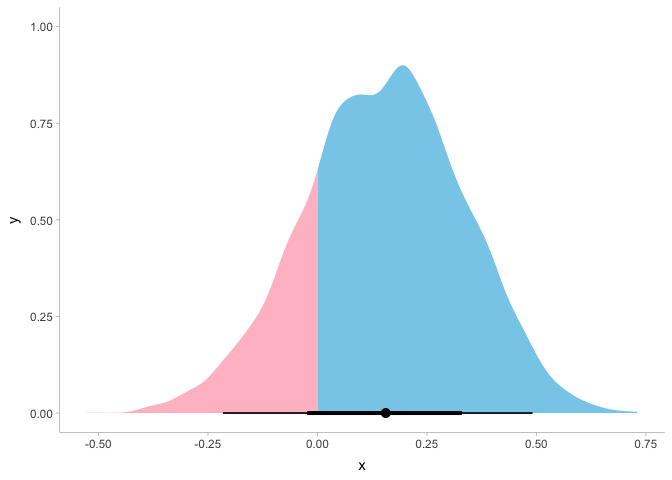
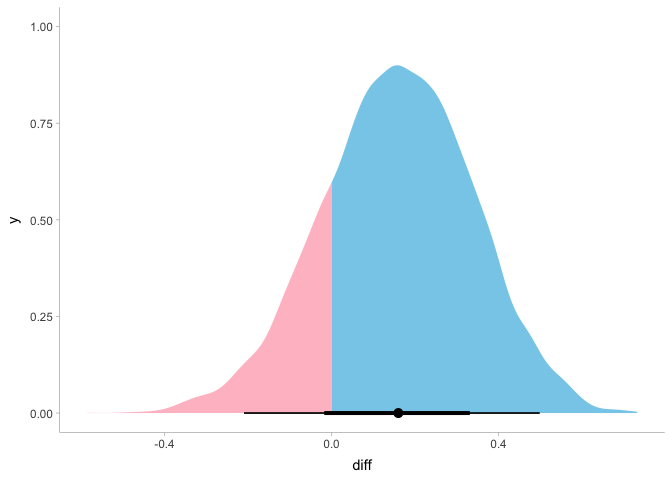
fixed bayes_diff and added as.unordered

diff --git a/README.md b/README.md
@@ -24,14 +24,6 @@ devtools::install_github("Agasax/laRs")
 ``` r
 library(laRs)
 library(tidyverse)
-#> ── Attaching packages ─────────────────────────────────────── tidyverse 1.3.0 ──
-#> ✓ ggplot2 3.3.2     ✓ purrr   0.3.4
-#> ✓ tibble  3.0.4     ✓ dplyr   1.0.2
-#> ✓ tidyr   1.1.2     ✓ stringr 1.4.0
-#> ✓ readr   1.3.1     ✓ forcats 0.5.0
-#> ── Conflicts ────────────────────────────────────────── tidyverse_conflicts() ──
-#> x dplyr::filter() masks stats::filter()
-#> x dplyr::lag()    masks stats::lag()
 library(tidybayes)
 data(posterior)
 posterior %>% 
@@ -67,11 +59,10 @@ cohenkappa(x,weights="quadratic")
 test <- beta_diff(8,11,6,11,prior="uniform",sample=1e4)
 test
 #> Probability of lower eventrate in a than b is: 
-#> 0.8
+#> 0.2
 
 test$post.samples %>% 
-  data.frame(x=.) %>% 
-  tricolor(x=x)
+  tricolor(x=diff)
 ```
 
 <img src="man/figures/README-beta_diff-1.png" width="100%" />
